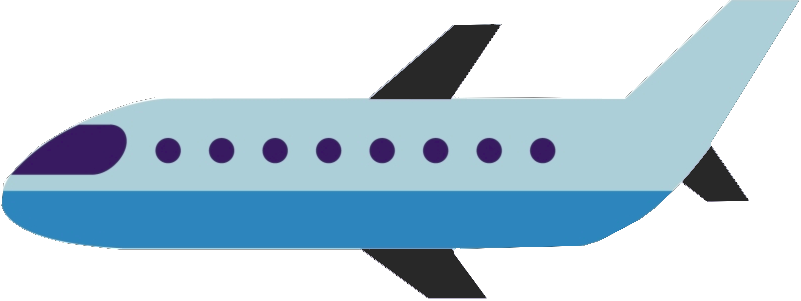
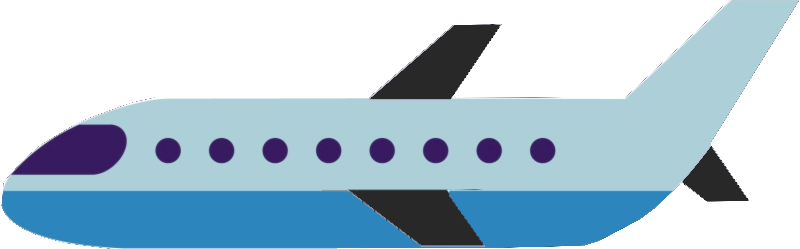
SideOnView updated, 2Dplane.png changed, arrow.png added

diff --git a/src/Desktop/SideOnView.java b/src/Desktop/SideOnView.java
@@ -1,7 +1,6 @@
 package Desktop;
 
 import Model.Objects.Runway;
-import javafx.application.Application;
 import javafx.geometry.Insets;
 import javafx.geometry.Pos;
 import javafx.scene.Group;
@@ -9,37 +8,32 @@ import javafx.scene.Scene;
 import javafx.scene.control.Label;
 import javafx.scene.image.Image;
 import javafx.scene.image.ImageView;
-import javafx.scene.layout.BorderPane;
-import javafx.scene.layout.HBox;
-import javafx.scene.layout.VBox;
+import javafx.scene.layout.*;
 import javafx.scene.shape.Line;
 import javafx.scene.shape.Rectangle;
 import javafx.scene.shape.StrokeType;
 import javafx.scene.text.Font;
-import javafx.stage.Stage;
 
-import java.io.File;
 import java.io.FileInputStream;
 
 import static javafx.scene.paint.Color.*;
 
 public class SideOnView {
-    
+
     //dummydata
     private int obstacleLength = 60;
-    private int obstacleHeight = 25;
+    private int obstacleHeight = 20;
     private int obstaclePosition = 2500;
     private int displacedThreshold = 300;
     private int threshold = 0;
-    private int startRESA = 2000;
-    private int endRESA = 2240;
+    private int RESA = 240;
 
-    private int stopwayLeftDistance = 50;
-    private int clearwayLeftDistance = 100;
+    private int stopwayLeftDistance = 0;
+    private int clearwayLeftDistance = 0;
     private int stopwayRightDistance = 40;
     private int clearwayRightDistance = 100;
 
-    private String LandingDirection = "LEFT";
+    private String LandingDirection = "RIGHT";
 
     private int TORA;
     private int TODA;
@@ -48,9 +42,8 @@ public class SideOnView {
 
 
     private int RUNWAY_LENGTH = 3902;
-    private int runwayWidth = 600;
-    private int blastAllowance = 300;
-    private float scale;
+    private int runwayWidth = 800;
+    private int BLAST = 300;
 
     public BorderPane setUpSideOnView(Runway runwayObject) throws Exception {
 
@@ -61,9 +54,8 @@ public class SideOnView {
         this.ASDA = runwayObject.getAccStopDistAvail();
         this.LDA = runwayObject.getLandDistAvail();
 
-
-        // CALCULATIONS FOR SCALE
-        scale = (float) runwayWidth / RUNWAY_LENGTH;
+//        // CALCULATIONS FOR SCALE
+        float scale = (float) runwayWidth / RUNWAY_LENGTH;
         System.out.println(scale);
         float obstacleScaledHeight = scale * obstacleHeight * 10;
         float obstacleScaledLength = scale * obstacleLength * 10;
@@ -72,18 +64,45 @@ public class SideOnView {
         float scaledTODA = scale * TODA;
         float scaledASDA = scale * ASDA;
         float scaledLDA = scale * LDA;
+        float scaledClearway = scale * clearwayRightDistance;
+        float scaledStopway = scale * stopwayRightDistance;
+        float scaledRESA = scale * RESA;
+        float scaledBlast = scale * BLAST;
 
         BorderPane borderPane = new BorderPane();
         Scene scene = new Scene(borderPane, 600, 400);
 
         // THRESHOLD DESIGNATOR
+        HBox bottom = new HBox();
+        bottom.prefHeight(27);
+
         HBox hBox = new HBox();
         hBox.prefHeight(27);
         hBox.setAlignment(Pos.CENTER_LEFT);
         hBox.getChildren().add(new Label(runwayObject.getRunwayName()));
         Insets insets = new Insets(5, 10, 5, 10);
         hBox.setPadding(insets);
-        borderPane.setBottom(hBox);
+
+        HBox keyHBox = new HBox();
+        keyHBox.prefHeight(27);
+        keyHBox.setAlignment(Pos.CENTER_RIGHT);
+        Label key = new Label("KEY:    ");
+        Rectangle stopwayKey = new Rectangle(10,10);
+        stopwayKey.setFill(DARKBLUE);
+        Label key1 = new Label(" - Stopway  ");
+        Rectangle clearwayKey = new Rectangle(10,10);
+        clearwayKey.setFill(LIGHTBLUE);
+        Label key2 = new Label(" - Clearway");
+        Insets insets2 = new Insets(5, 10, 5, 10);
+        keyHBox.setPadding(insets2);
+        keyHBox.getChildren().addAll(key, stopwayKey, key1, clearwayKey, key2);
+
+        Region region = new Region();
+        region.setMaxHeight(27);
+
+        bottom.getChildren().addAll(hBox, region, keyHBox);
+        bottom.setHgrow(region, Priority.ALWAYS);
+        borderPane.setBottom(bottom);
 
         Group group = new Group();
 
@@ -98,29 +117,39 @@ public class SideOnView {
         runway.setStrokeType(StrokeType.INSIDE);
 
         float leftStopwayScaled = scale * stopwayLeftDistance;
-        Rectangle leftStopway = new Rectangle(leftStopwayScaled,15);
-        leftStopway.setFill(DARKBLUE);
-
-        float leftClearwayScaled = (scale * clearwayLeftDistance) - leftStopwayScaled;
-        Rectangle leftClearway = new Rectangle(leftClearwayScaled, 15);
-        leftClearway.setFill(LIGHTBLUE);
-
+        float leftClearwayScaled = Math.max(0, (scale * clearwayLeftDistance) - leftStopwayScaled);
         float rightStopwayScaled = scale * stopwayRightDistance;
-        Rectangle rightStopway = new Rectangle(rightStopwayScaled, 15);
-        rightStopway.setFill(DARKBLUE);
-
         float rightClearwayScaled = (scale * clearwayRightDistance) - rightStopwayScaled;
-        Rectangle rightClearway = new Rectangle(rightClearwayScaled, 15);
-        rightClearway.setFill(LIGHTBLUE);
 
-        float widthChanged = runwayWidth - leftStopwayScaled - leftClearwayScaled -
-                rightStopwayScaled - rightClearwayScaled;
+        HBox left = new HBox();
+        float leftWidth;
+        if (clearwayLeftDistance > stopwayLeftDistance) {
+            left.getChildren().addAll(new Rectangle(leftClearwayScaled, 15, LIGHTBLUE),
+                    new Rectangle(leftStopwayScaled, 15, DARKBLUE));
+            leftWidth = leftClearwayScaled + leftStopwayScaled;
+        } else {
+            left.getChildren().addAll(new Rectangle(leftStopwayScaled, 15, DARKBLUE));
+            leftWidth = leftStopwayScaled;
+        }
+
+        HBox right = new HBox();
+        float rightWidth;
+        if (clearwayRightDistance > stopwayRightDistance) {
+            right.getChildren().addAll(new Rectangle(rightStopwayScaled, 15, DARKBLUE),
+                    new Rectangle(rightClearwayScaled, 15, LIGHTBLUE));
+            rightWidth = rightClearwayScaled + rightStopwayScaled;
+        } else {
+            right.getChildren().addAll(new Rectangle(rightStopwayScaled, 15, DARKBLUE));
+            rightWidth = rightStopwayScaled;
+        }
+
+        float widthChanged = runwayWidth - leftWidth - rightWidth;
+
         runway.setWidth(widthChanged);
-
-        wholeRunway.getChildren().addAll(leftClearway, leftStopway, runway, rightStopway, rightClearway);
+        wholeRunway.getChildren().addAll(left, runway, right);
 
         // DASHED LINE
-        Line dashed = new Line(0, 0, widthChanged, 0);
+        Line dashed = new Line(0, 0, widthChanged - 10, 0);
         dashed.getStrokeDashArray().addAll(25d, 10d);
         dashed.setStroke(WHITE);
 
@@ -131,15 +160,29 @@ public class SideOnView {
 //        object.setStrokeType(StrokeType.INSIDE);
 //        object.setWidth(obstacleScaledLength);
 //        object.setHeight(obstacleScaledHeight);
+
+        // PLANE OBSTACLE
         FileInputStream input = new FileInputStream("2Dplane.png");
         Image image = new Image(input);
         ImageView plane = new ImageView(image);
         plane.setFitHeight(obstacleScaledHeight);
         plane.setFitWidth(obstacleScaledLength);
 
+        // ARROW
+        FileInputStream arrowFile = new FileInputStream("arrow.png");
+        Image arrowImage = new Image(arrowFile);
+        ImageView arrow = new ImageView(arrowImage);
+        arrow.setFitWidth(50);
+        arrow.setFitHeight(15);
+        VBox arrowVBox = new VBox();
+        arrowVBox.getChildren().addAll(arrow, new Label("Landing Direction"));
+        arrowVBox.setAlignment(Pos.CENTER);
+        if (LandingDirection.equals("LEFT")) {
+            arrow.setRotate(180);
+        }
 
         // LINE FOR RUNWAY DISTANCE
-        Line runwayDistance = new Line(0, 0, runway.getWidth(), 0);
+        Line runwayDistance = new Line(0, 0, runwayWidth, 0);
 
         // LINE FOR OBJECT DISTANCE
         Line objectDistance = new Line(0, 0, obstacleScaledDistance, 0);
@@ -155,6 +198,18 @@ public class SideOnView {
 
         // LINE FOR LDA
         Line ldaDistance = new Line(0, 0, scaledLDA, 0);
+
+        // LINE FOR CLEARWAY
+        Line clearwayDistance = new Line(0, 0, scaledClearway, 0);
+
+        // LINE FOR STOPWAY
+        Line stopwayDistance = new Line(0, 0, scaledStopway, 0);
+
+        // LINE FOR RESA
+        Line resaDistance = new Line(0, 0, scaledRESA, 0);
+
+        // LINE FOR BLAST
+        Line blastDistance = new Line(0, 0, scaledBlast, 0);
 
         // LABEL FOR RUNWAY DISTANCE
         VBox runwayVBox = new VBox();
@@ -198,24 +253,88 @@ public class SideOnView {
         ldaLabel.setFont(new Font("Arial", 10));
         ldaVBox.getChildren().addAll(ldaLabel, ldaDistance);
 
+        // LABEL FOR STOPWAY
+        VBox stopwayVBox = new VBox();
+        stopwayVBox.setAlignment(Pos.CENTER_RIGHT);
+        Label stopwayLabel = new Label("(" + stopwayRightDistance + "m)");
+        stopwayLabel.setFont(new Font("Arial", 10));
+        stopwayVBox.getChildren().addAll(stopwayLabel, stopwayDistance);
+
+        // LABEL FOR CLEARWAY
+        VBox clearwayVBox = new VBox();
+        clearwayVBox.setAlignment(Pos.CENTER_RIGHT);
+        Label clearwayLabel = new Label("(" + clearwayRightDistance + "m)");
+        clearwayLabel.setFont(new Font("Arial", 10));
+        clearwayVBox.getChildren().addAll(clearwayLabel, clearwayDistance);
+
+        HBox clearwayHBox = new HBox();
+        clearwayHBox.getChildren().add(clearwayVBox);
+        clearwayHBox.setPrefWidth(runwayWidth);
+        clearwayHBox.setAlignment(Pos.CENTER_RIGHT);
+
+        HBox stopwayHBox = new HBox();
+        stopwayHBox.getChildren().add(stopwayVBox);
+        stopwayHBox.setPrefWidth(runwayWidth);
+        stopwayHBox.setAlignment(Pos.CENTER_RIGHT);
+
+        // LABEL FOR RESA
+        VBox resaVBox = new VBox();
+        resaVBox.setAlignment(Pos.CENTER_RIGHT);
+        Label resaLabel = new Label("(RESA = " + RESA + "m)");
+        resaLabel.setFont(new Font("Arial", 10));
+        resaVBox.getChildren().addAll(resaDistance, resaLabel);
+
+        HBox resaHBox = new HBox();
+        resaHBox.getChildren().add(resaVBox);
+        resaHBox.setPrefWidth(runwayWidth);
+        resaHBox.setAlignment(Pos.CENTER_RIGHT);
+
+        // LABEL FOR BLAST
+        VBox blastVBox = new VBox();
+        blastVBox.setAlignment(Pos.CENTER_RIGHT);
+        Label blastLabel = new Label("(BLAST = " + BLAST + "M)");
+        blastLabel.setFont(new Font("Arial", 10));
+        blastVBox.getChildren().addAll(blastLabel, blastDistance);
+
+        HBox blastHBox = new HBox();
+        blastHBox.getChildren().add(blastVBox);
+        blastHBox.setPrefWidth(runwayWidth);
+        blastHBox.setAlignment(Pos.CENTER_RIGHT);
+
         group.getChildren().addAll(wholeRunway, dashed, plane, runwayVBox,
-                objectVBox, toraVBox, todaVBox, asdaVBox, ldaVBox);
-        
+                objectVBox, toraVBox, todaVBox, asdaVBox, ldaVBox,
+                stopwayHBox, clearwayHBox, arrowVBox, resaHBox, blastHBox);
+
+        arrowVBox.setLayoutY(-150);
+        arrowVBox.setLayoutX(0.2 * runwayWidth);
+
         todaVBox.setLayoutY(-100);
         asdaVBox.setLayoutY(-80);
         toraVBox.setLayoutY(-60);
         ldaVBox.setLayoutY(-40);
 
         objectVBox.setLayoutY(-20);
-        wholeRunway.setLayoutY(obstacleScaledHeight - 10);
-        dashed.setLayoutY(obstacleScaledHeight - 2.5);
-        dashed.setLayoutX(leftClearwayScaled + leftStopwayScaled);
+
+        clearwayHBox.setLayoutY(obstacleScaledHeight - 40);
+        stopwayHBox.setLayoutY(obstacleScaledHeight - 25);
+        stopwayHBox.setLayoutX(-rightClearwayScaled);
+
+        blastHBox.setLayoutY(obstacleScaledHeight - 25);
+        blastHBox.setPrefWidth(obstacleScaledDistance - scaledRESA);
+
+        wholeRunway.setLayoutY(obstacleScaledHeight - 7.5);
+        dashed.setLayoutY(obstacleScaledHeight);
+        dashed.setLayoutX(leftClearwayScaled + leftStopwayScaled + 5);
         plane.setLayoutX(obstacleScaledDistance);
-        runwayVBox.setLayoutY(obstacleScaledHeight + 15);
+
+        resaHBox.setLayoutY(obstacleScaledHeight + 15);
+        resaHBox.setPrefWidth(obstacleScaledDistance);
+
+        runwayVBox.setLayoutY(obstacleScaledHeight + 35);
 
         borderPane.setLayoutX(152.0);
         borderPane.setLayoutY(88.0);
-
+        
         borderPane.setPrefHeight(408.0);
         borderPane.setPrefWidth(629.0);
 
